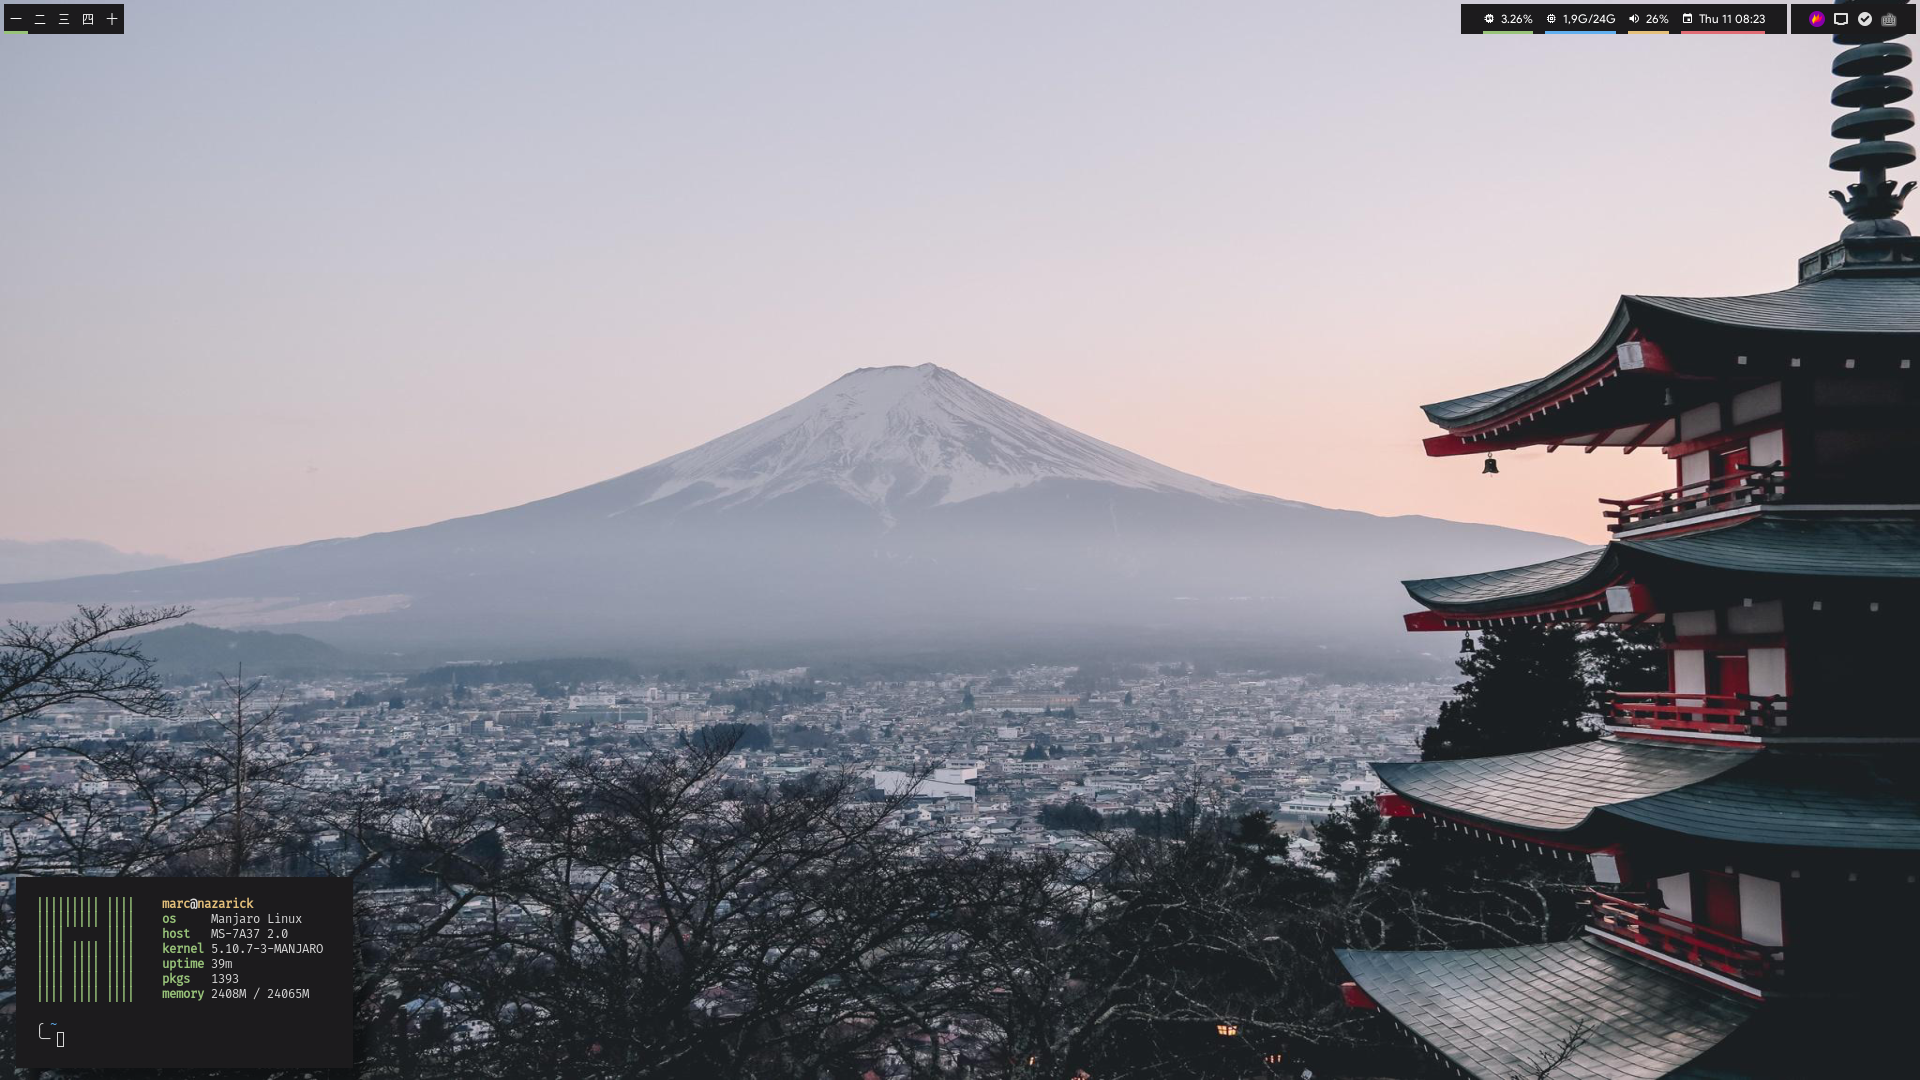
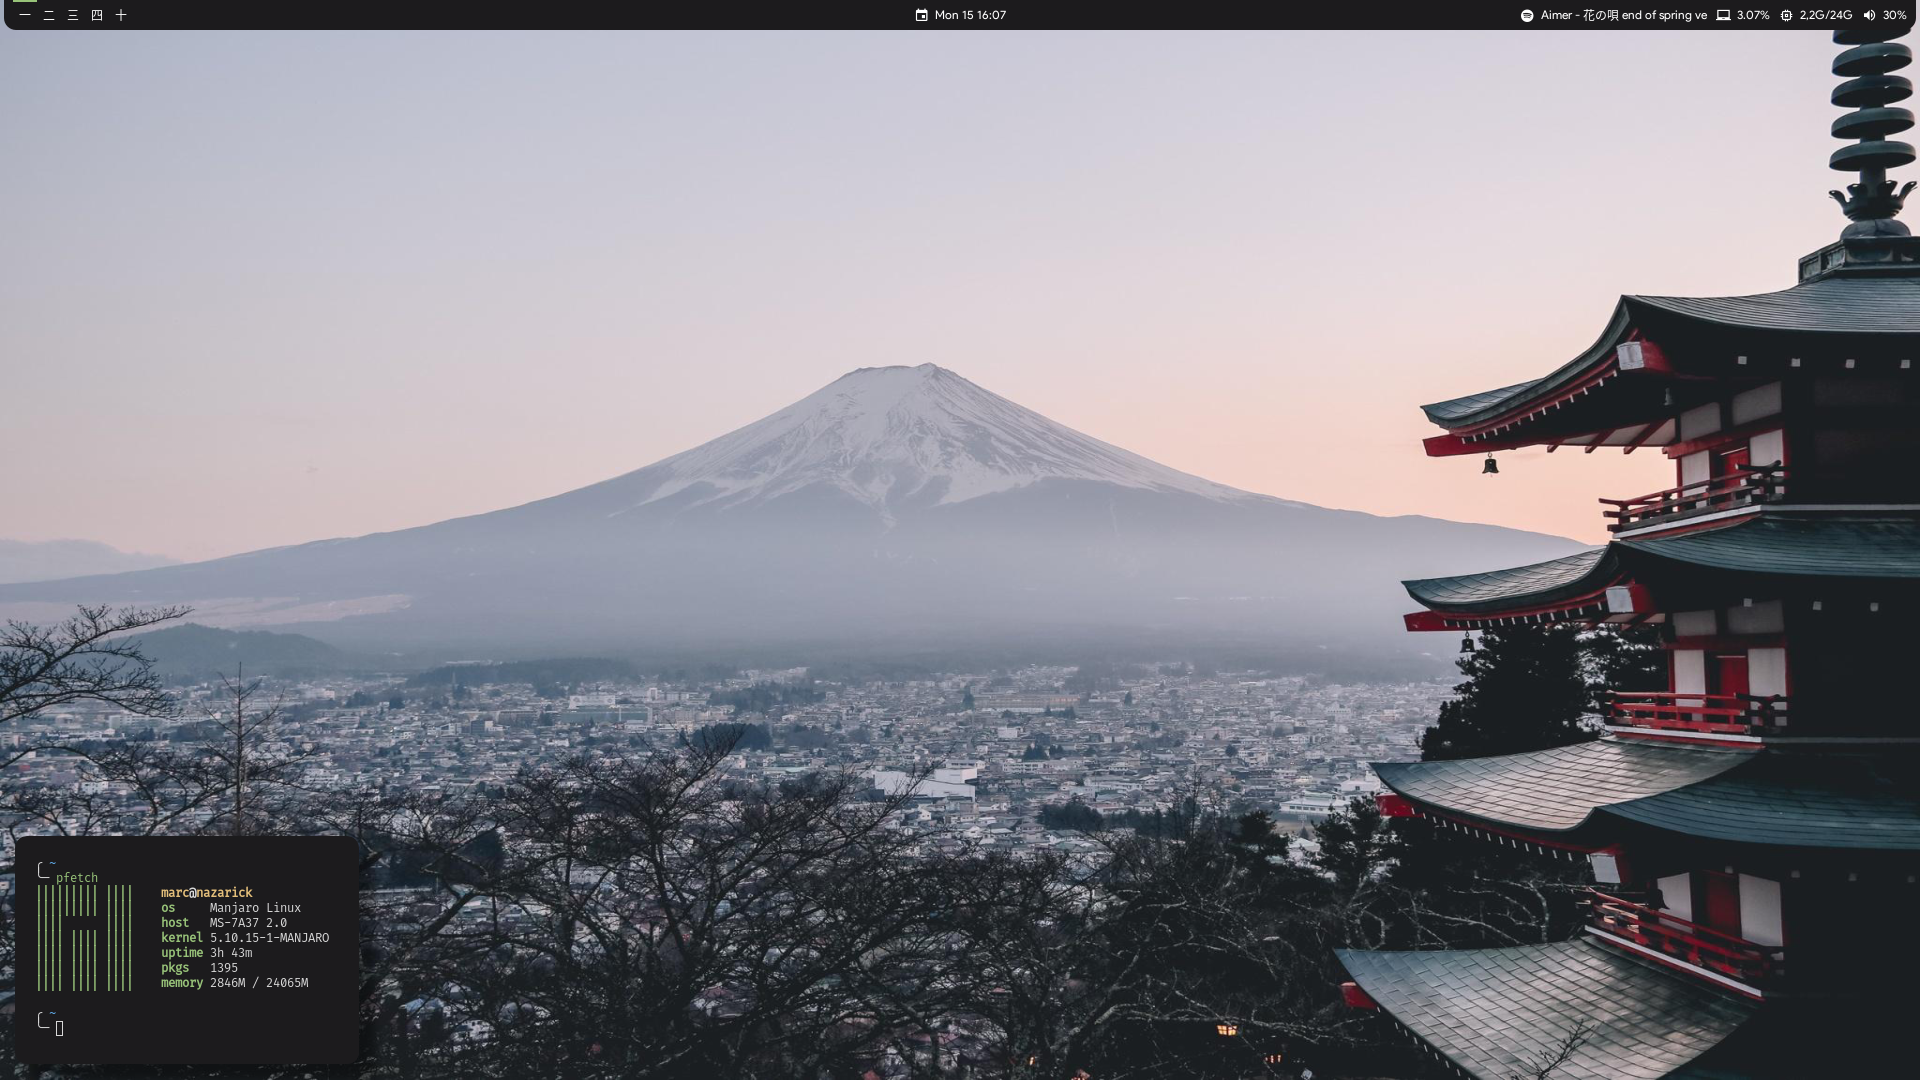
Update polybar

Changed region(s): [[0.0, 0.0, 1.0, 0.0306], [0.0, 0.7639, 0.1875, 0.9472]]

diff --git a/files/.config/polybar/scripts/spotify_status.py b/files/.config/polybar/scripts/spotify_status.py
@@ -68,7 +68,7 @@ def truncate(name, trunclen):
 
 # Default parameters
 output = fix_string(u'{play_pause} {artist}: {song}')
-trunclen = 50
+trunclen = 60
 play_pause = fix_string(u'\u25B6,\u23F8') # first character is play, second is paused
 
 label_with_font = '%{{T{font}}}{label}%{{T-}}'
